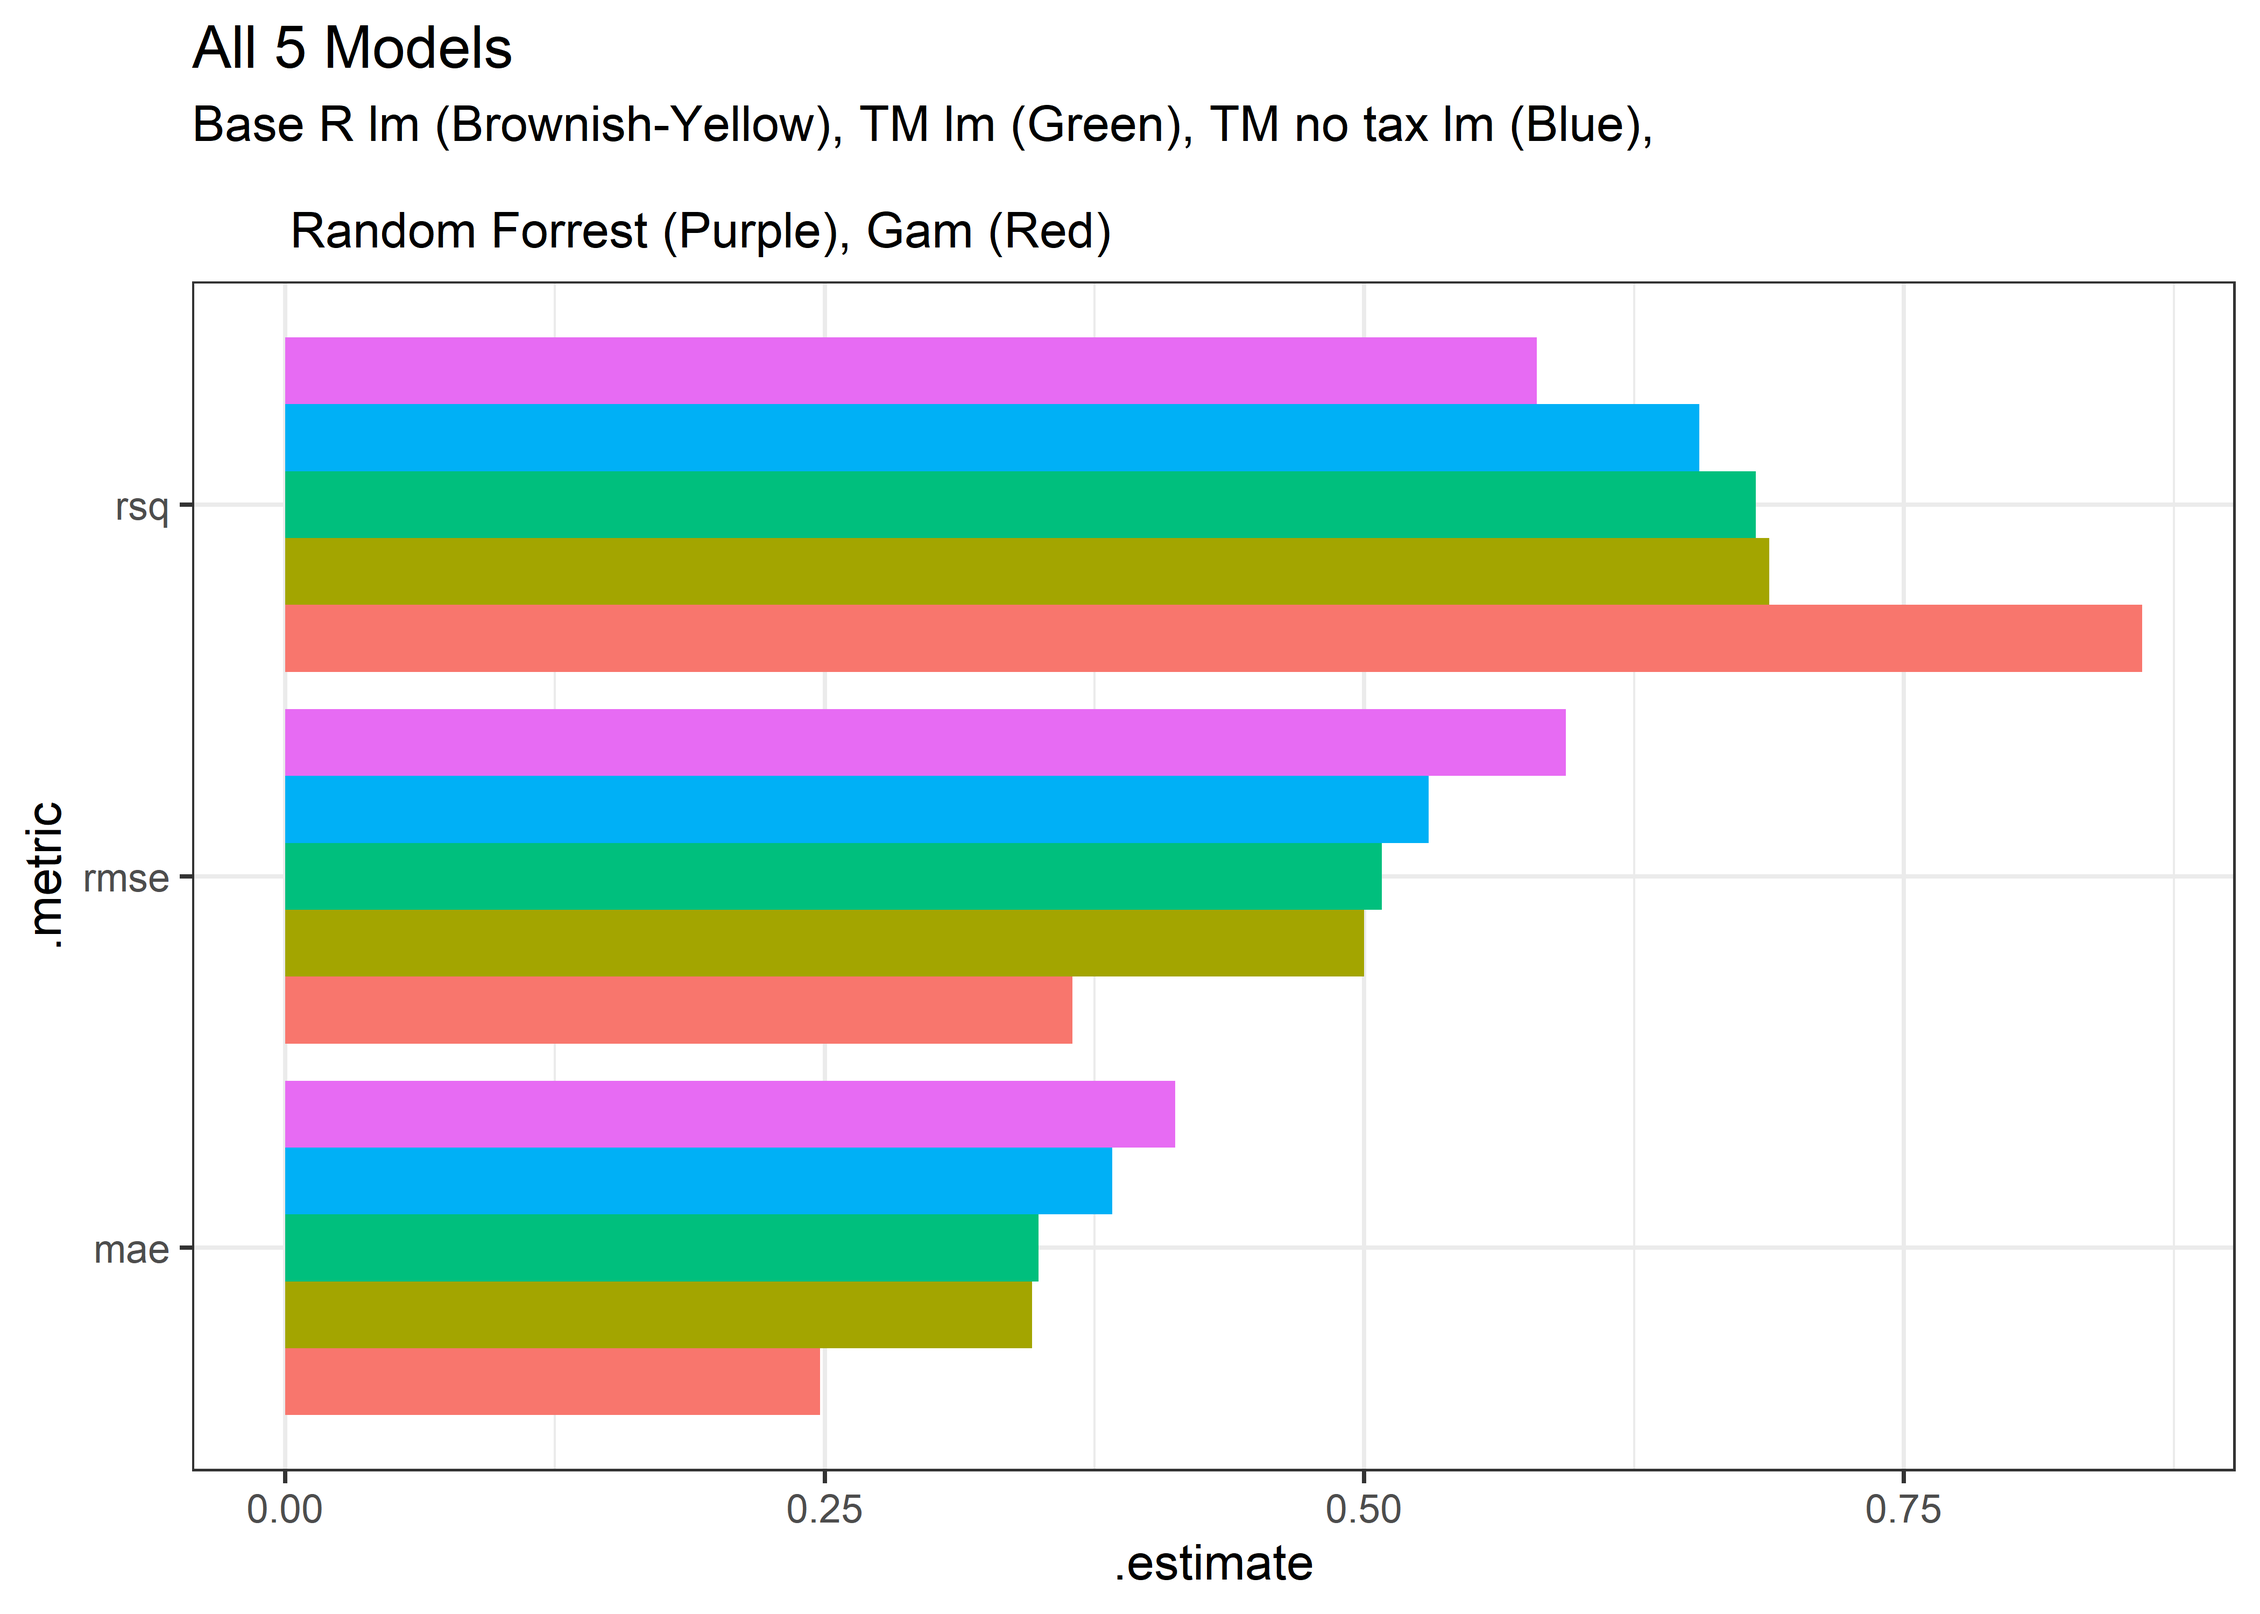
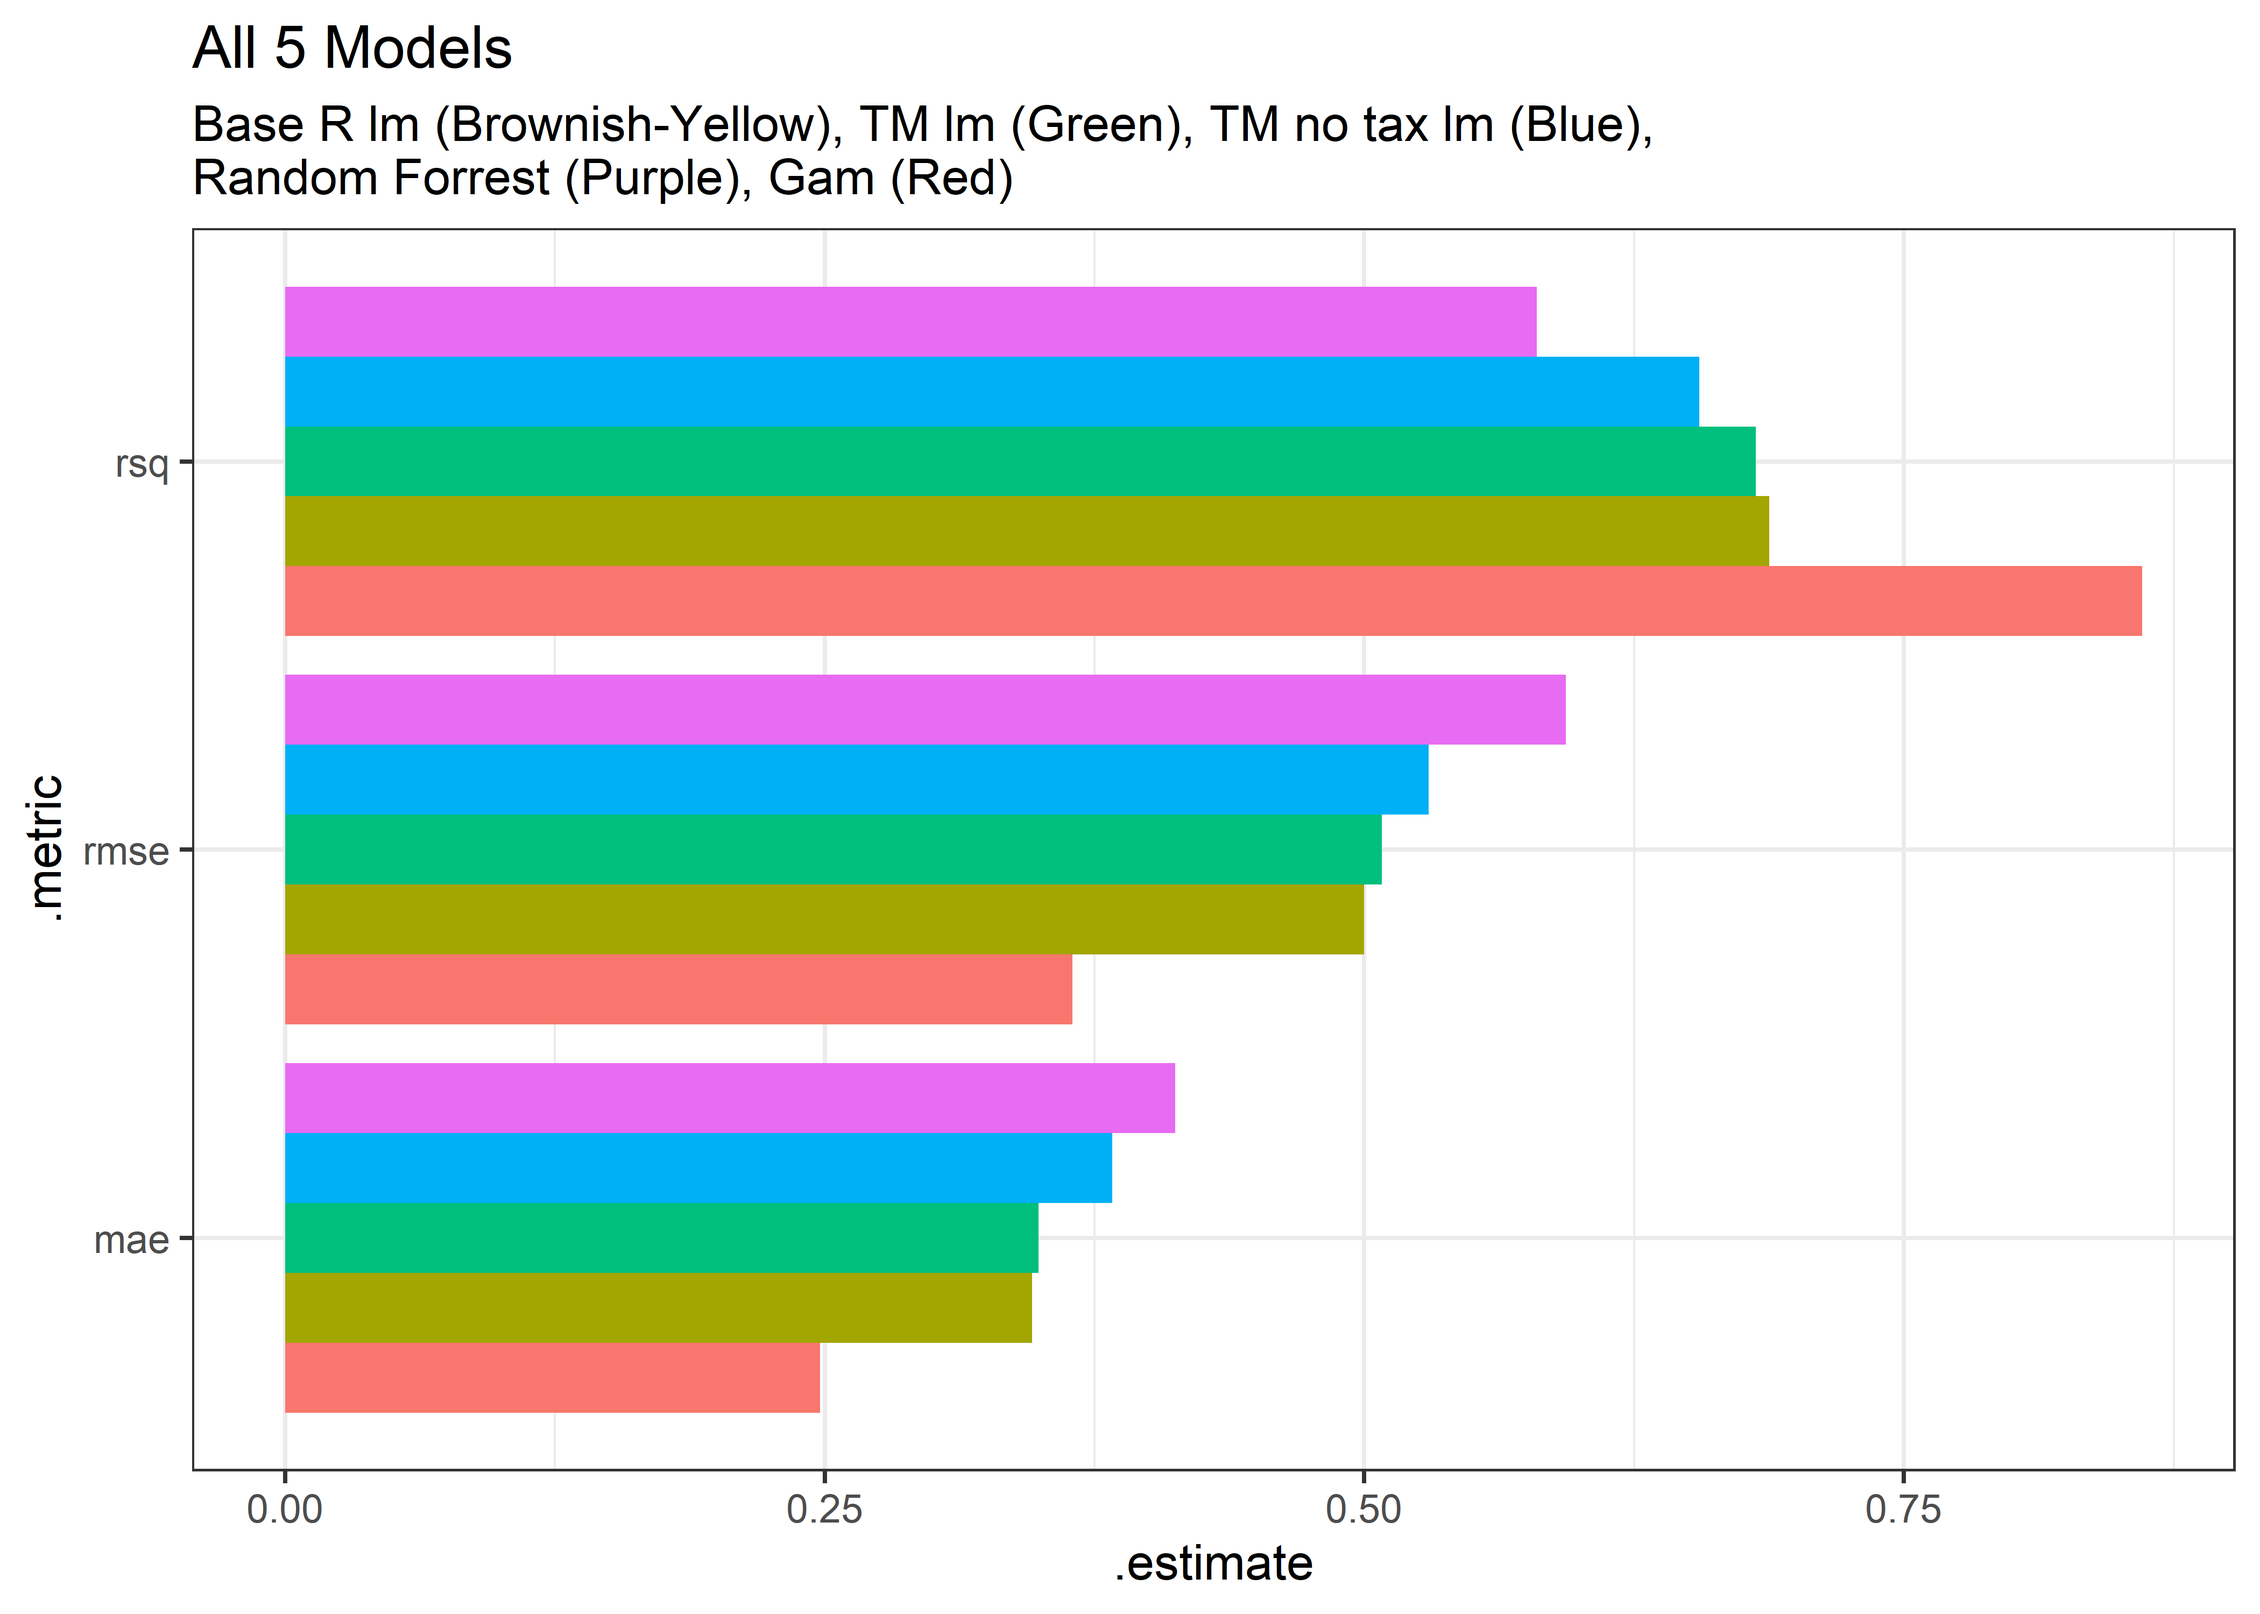
Text correction and removal of map

diff --git a/NYC House Prices/NYCHousePrices.md b/NYC House Prices/NYCHousePrices.md
@@ -26,7 +26,6 @@ Matthew
         the trees</a>
 -   <a href="#just-let-gam-figure-it-out"
     id="toc-just-let-gam-figure-it-out">Just let Gam figure it out</a>
--   <a href="#scrap-work" id="toc-scrap-work">Scrap work</a>
 
 # Introduction
 
@@ -980,8 +979,8 @@ all_metrics_rf %>%
   ggplot(aes(.estimate, .metric, fill = fct_reorder(model, .estimate, max, .desc = TRUE))) +
   geom_col(position = "dodge") + 
   labs(title = "All 5 Models", 
-       subtitle = "Base R lm (Brownish-Yellow), TM lm (Green), TM no tax lm (Blue), \n
-       Random Forrest (Purple), Gam (Red)") +
+       subtitle = "Base R lm (Brownish-Yellow), TM lm (Green), TM no tax lm (Blue),
+Random Forrest (Purple), Gam (Red)") +
   theme(legend.position = "none")
 ```
 
@@ -990,46 +989,5 @@ all_metrics_rf %>%
 The GAM Model outperforms all other models. It has less RMSE and MAE, as
 well as a higher R^2
 
-# Scrap work
-
-``` r
-world <- ne_countries(scale = "medium", returnclass = "sf")
-
-range(house$lon, na.rm = TRUE)
-```
-
-    ## [1] -77.59145 -72.64771
-
-``` r
-range(house$lat, na.rm = TRUE)
-```
-
-    ## [1] 40.49896 43.16907
-
-``` r
-ggplot(world) + geom_sf() +
-  coord_sf(
-    xlim = c(-74.35, -73.6), 
-    ylim = c(min(house$lat, na.rm = TRUE), 40.95), expand = FALSE) + 
-  geom_point(data = house %>% filter(!is.na(price)) %>% mutate(price = log(price)), 
-             aes(lon, lat, color = price, alpha = 0.3)) +
-  scale_color_viridis_c()
-```
-
-![](NYCHousePrices_files/figure-gfm/unnamed-chunk-36-1.png)<!-- -->
-
 Because of the lack of precision in longitude/latitude variables, the
 points on the map are slightly off.
-
-``` r
-house %>% 
-  filter(!is.na(price), between(lon, -75, -73), between(lat, 40, 41)) %>% 
-  select(price, lon, lat) %>% 
-  pivot_longer(-price) %>% 
-  ggplot(aes(value, log(price))) + geom_point() + geom_smooth(formula = y ~ ns(x, 5)) +
-  facet_wrap(~name, scales = "free")
-```
-
-    ## `geom_smooth()` using method = 'gam'
-
-![](NYCHousePrices_files/figure-gfm/unnamed-chunk-37-1.png)<!-- -->
